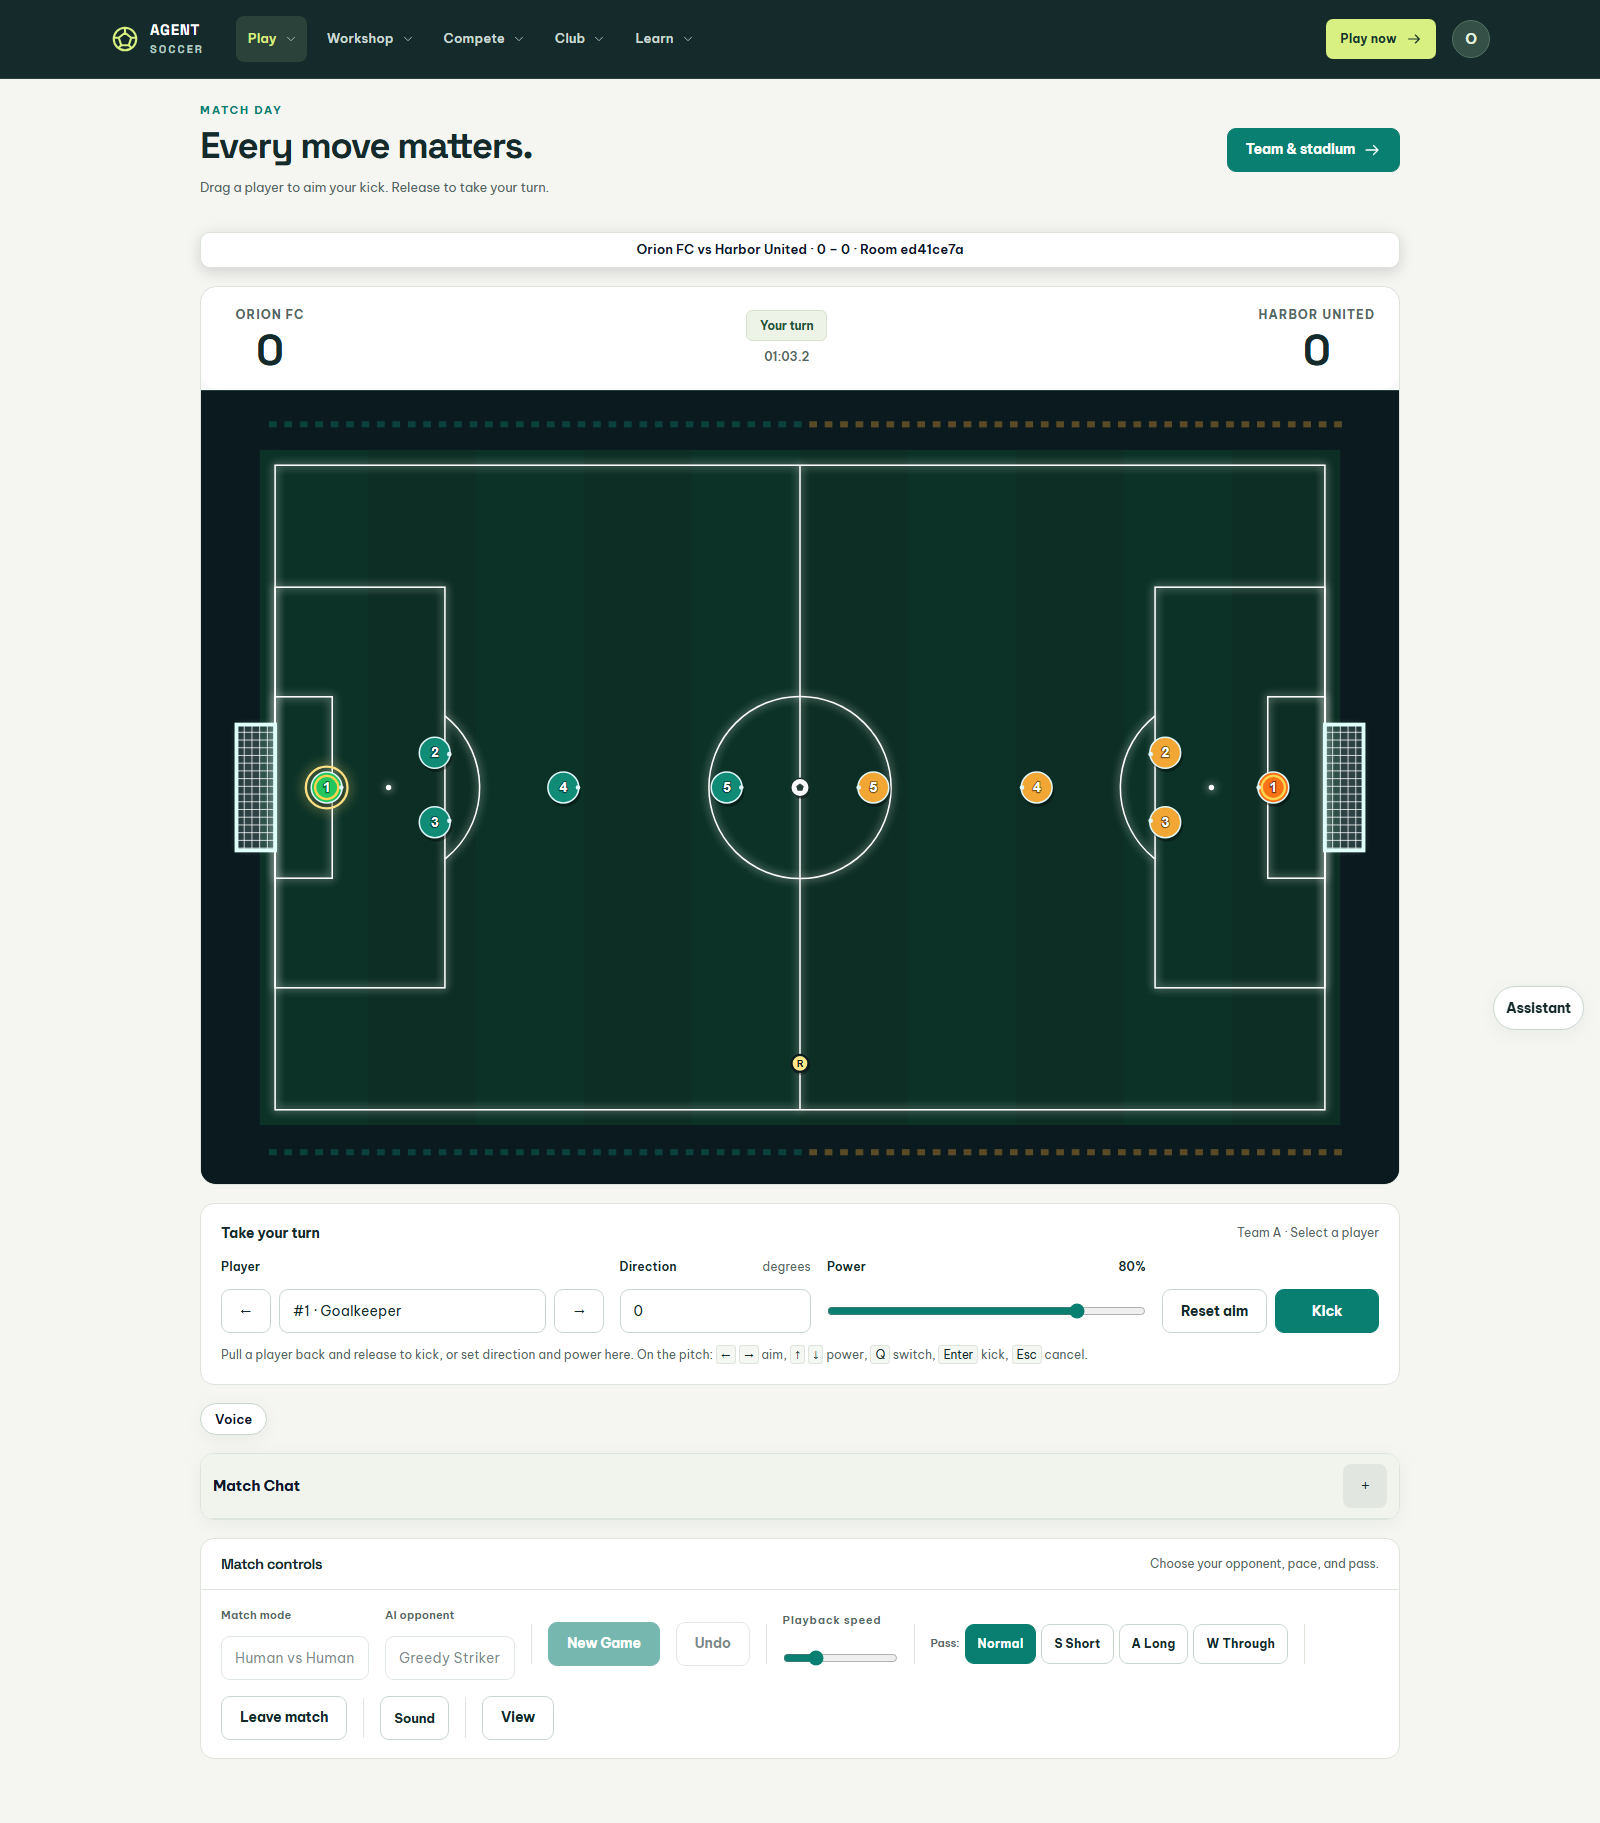
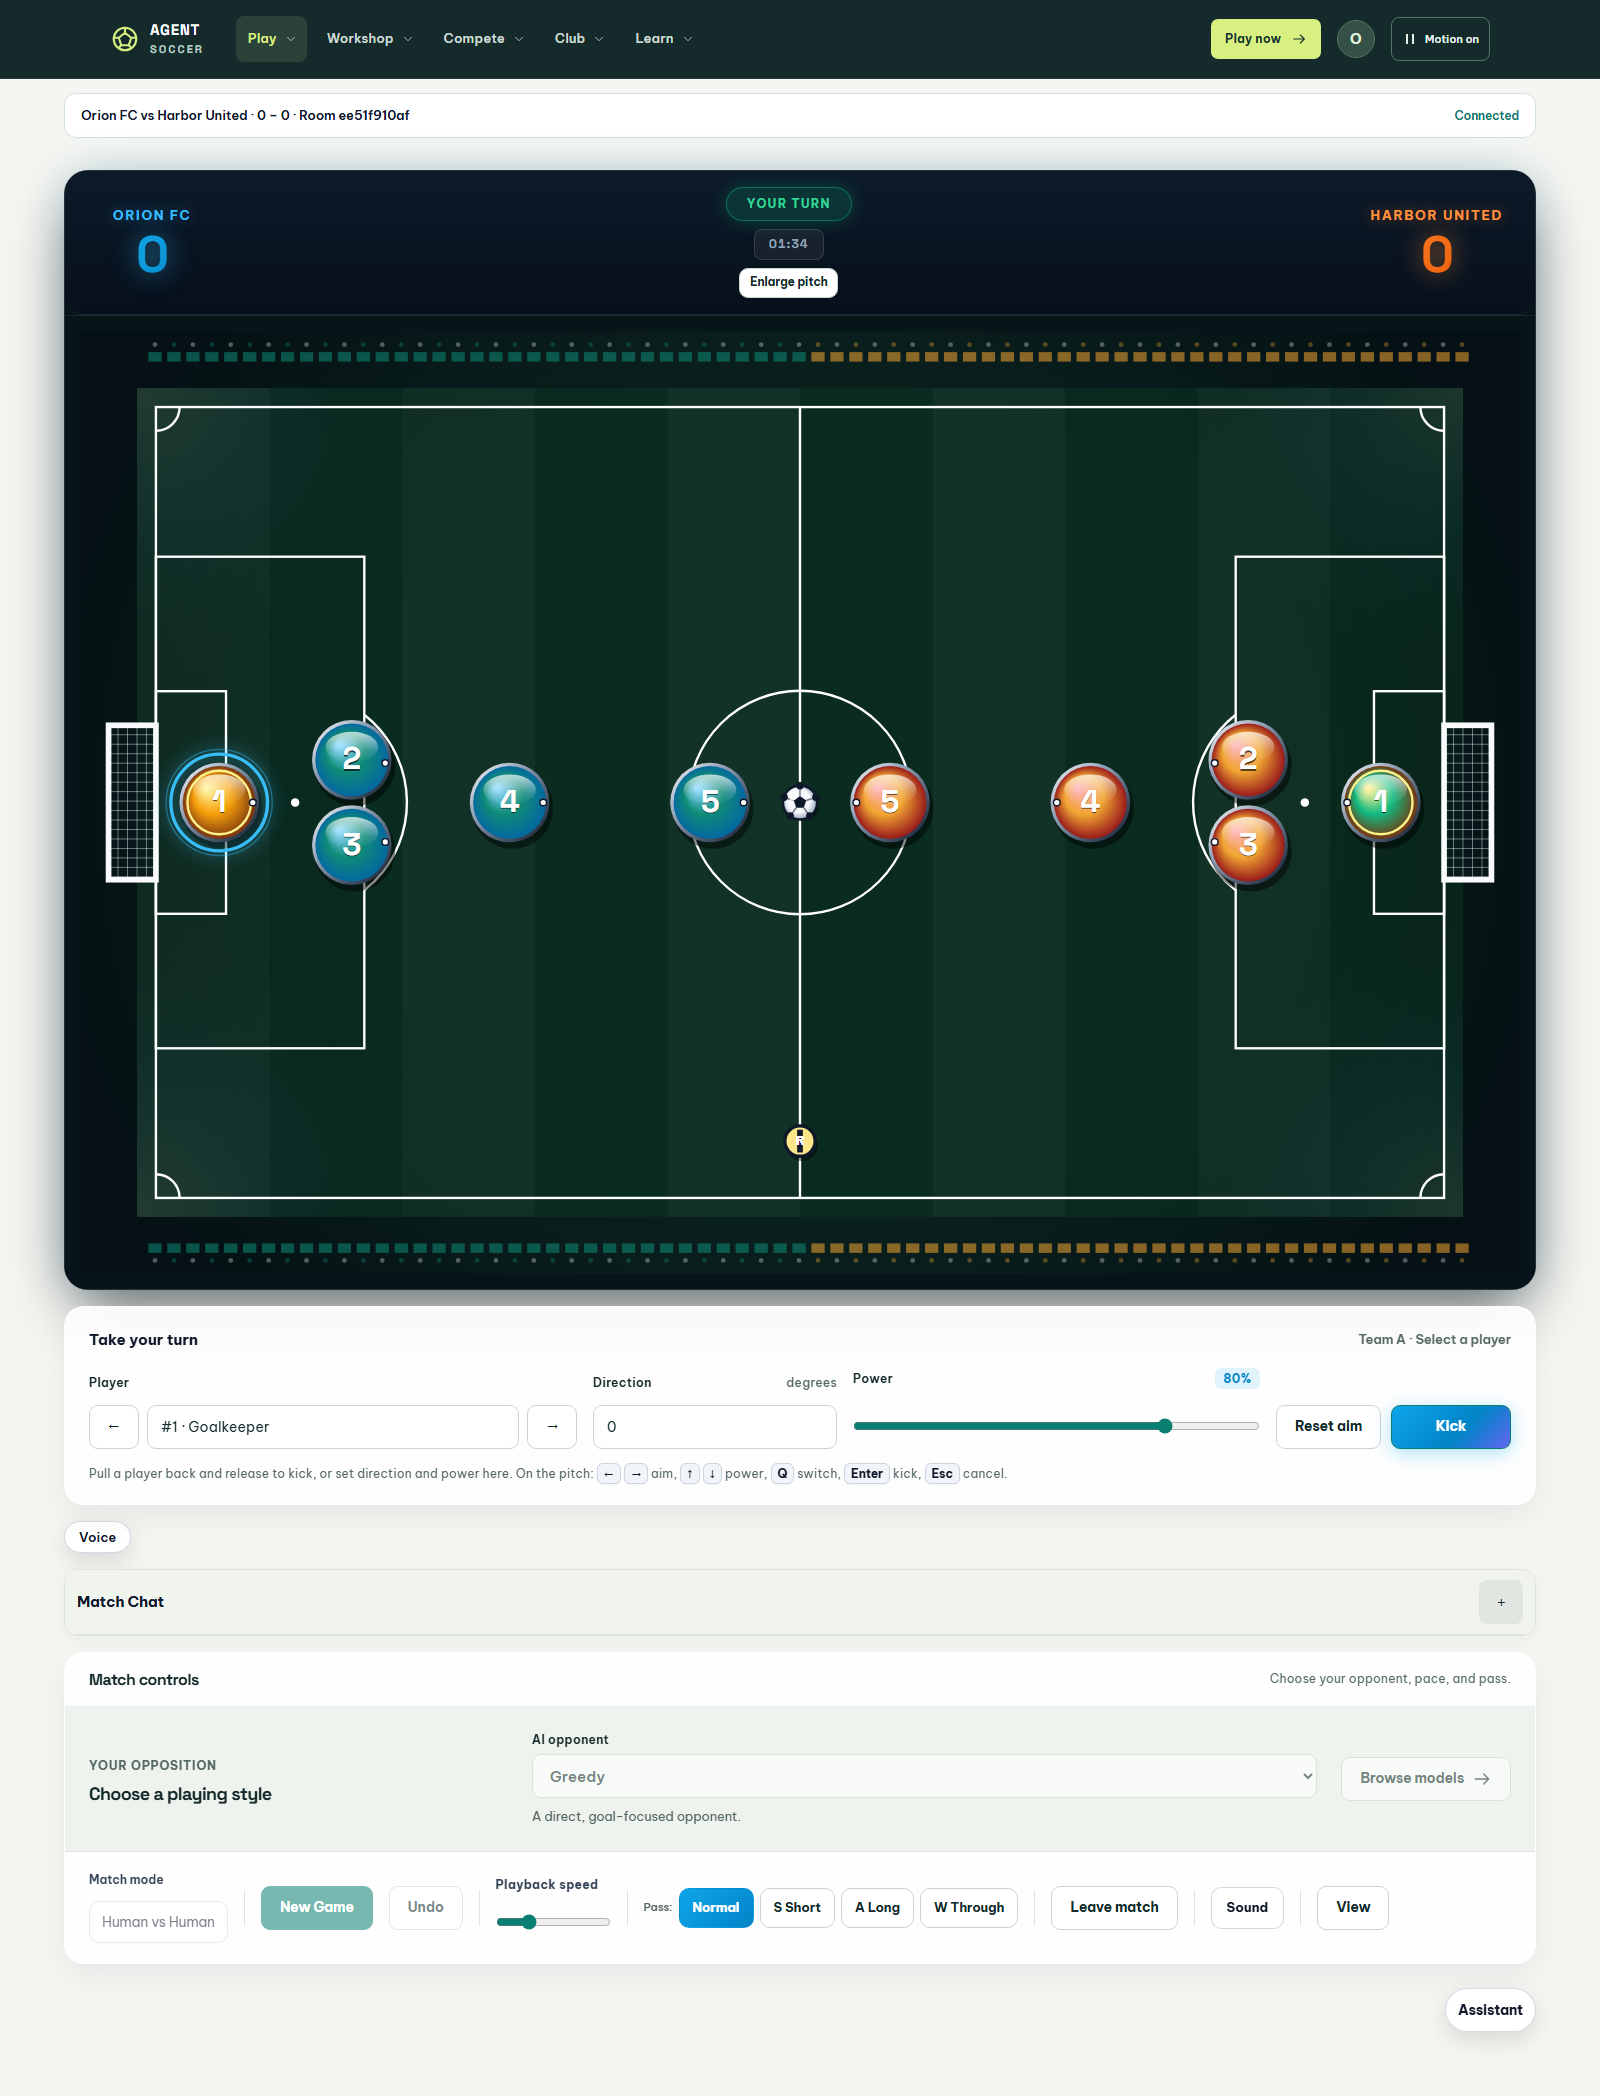
Refresh README gameplay guide and current product screenshots

diff --git a/tools/browser/capture_readme.py b/tools/browser/capture_readme.py
@@ -112,9 +112,12 @@ def capture() -> list[dict]:
     browser_errors = []
     failed_requests = []
 
-    def save_preview(page, filename, caption, *, full_page=False):
+    def save_preview(page, filename, caption, *, full_page=False, selector=None):
         path = destination / filename
-        page.screenshot(path=str(path), full_page=full_page, timeout=60000)
+        if selector:
+            page.locator(selector).screenshot(path=str(path), timeout=60000)
+        else:
+            page.screenshot(path=str(path), full_page=full_page, timeout=60000)
         with Image.open(path) as source:
             # Lossless RGB saves discard redundant alpha without softening text.
             source.convert("RGB").save(path, optimize=True)
@@ -138,7 +141,18 @@ def capture() -> list[dict]:
                     if response.status >= 400 else None)
             page.goto(base + "/__readme/sign-in", wait_until="networkidle")
 
-            page.goto(base + f"/play3d?room={room_id}", wait_until="networkidle")
+            page.goto(base + "/play2d", wait_until="networkidle")
+            page.locator('[onclick="resetGame()"]').click()
+            page.locator("#match-start-btn").wait_for(state="visible")
+            page.locator("#mode-select").select_option("hvai")
+            page.wait_for_function("document.querySelectorAll('.setup-team').length === 1")
+            save_preview(page, "match-setup.png", "Choose a formation and playstyle before kickoff.", selector="#match-setup")
+            page.locator("#online-btn").click()
+            page.locator("#online-resume-card").wait_for(state="visible")
+            save_preview(page, "online-lobby.png", "Friend invitations and match recovery in the online lobby.", selector=".online-lobby-card")
+            page.keyboard.press("Escape")
+
+            page.goto(base + f"/play2d?room={room_id}", wait_until="networkidle")
             page.wait_for_function("window.__pitch2D?.().players_a.length === 5")
             page.wait_for_function("document.querySelector('.team-a .team-name').textContent === 'Orion FC'")
             canvas = page.locator("#pitch-container canvas")

diff --git a/README.md b/README.md
@@ -2,11 +2,11 @@
 
 # Agent Soccer
 
-**A soccer game and Python AI playground, in your browser.** Build a strategy, tune your squad, and watch it compete on a 2D pitch. Agent Soccer combines turn-based controls with server-side physics, online matches, and tools for comparing your agents.
+**Pull back. Aim. Release.** Agent Soccer is a five-a-side, turn-based soccer game and Python AI playground. Choose your tactics, launch your players across a 2D pitch, and compete against AI or another person. Every kick uses server-side physics, with synchronized playback for the ball and both teams.
 
 **Python · Flask · Pymunk · Canvas 2D · WebAudio**
 
-[Quick start](#quick-start) · [Build an agent](#build-an-agent) · [AI catalog](#ai-catalog) · [Documentation](#documentation) · [Demo](https://drag-soccer-with-agent.onrender.com/)
+[Quick start](#quick-start) · [How to play](#how-to-play) · [Online play](#play-online) · [Build an agent](#build-an-agent) · [Documentation](#documentation) · [Demo](https://drag-soccer-with-agent.onrender.com/)
 
 ![A five-a-side online match between Orion FC and Harbor United, with the stadium, scoreboard, and player controls visible.](docs/assets/readme/gameplay.png)
 
@@ -17,6 +17,7 @@
 | | Experience |
 | --- | --- |
 | **Play** | Five players per team. Control your striker against AI, take turns locally, or watch AI vs AI. Pull back, aim, and release. |
+| **Plan** | Choose one of four formations and a five-level AI playstyle before kickoff. Players keep distinct defensive, support, and attacking jobs. |
 | **Build** | Write Python in the AI Playground, validate your strategy, save custom models, and work through seven guided lessons. |
 | **Customize** | Allocate player stats, choose formations and kits, and change pitch, ball, keeper, and referee colors. |
 | **Compete** | Compare agents in the Arena, run tournaments, submit models to the model leaderboard, or play ranked human matches. |
@@ -75,11 +76,29 @@ DEV_MODE=1 python app.py
 
 Open **[localhost:5000](http://localhost:5000)**. Choose **Log in → Try the demo account → Use demo details → Sign in**, then open the Workshop to create an agent. Keep optional integration keys empty for a standalone local session.
 
-### Play your first match
+## How to play
 
 1. Open **Play** and choose Human vs AI, Human vs Human, or AI vs AI.
-2. Choose your match settings. Each team has five players.
-3. Pull a legal player backward and release to kick, or use the direction and power controls.
+2. Choose a **formation** and, for AI matches, a **playstyle**. The lineup preview shows each player's position and job.
+3. Select **Start match**. The clock stays at **00:00** until kickoff.
+4. Pull an eligible player backward and release to launch it, or use the direction and power controls.
+
+![Pre-match setup with a numbered lineup preview, four formation choices, and five playstyle dots.](docs/assets/readme/match-setup.png)
+
+### Choose your tactics
+
+| Formation | Shape |
+| --- | --- |
+| **2-1-1 · Balanced** | Two defenders, one support player, one striker |
+| **1-2-1 · Diamond** | One defender, two midfield outlets, one striker |
+| **2-0-2 · Box** | Two defenders and two forwards |
+| **1-1-2 · Forward pair** | One defender and one support player behind two forwards |
+
+Every formation also includes a goalkeeper. The five playstyle dots run from **Deep defend → Defend → Balanced → Attack → All-out attack**. They adjust AI positioning and risk preference while preserving each player's role.
+
+Human vs AI configures your team; AI vs AI configures both teams. Local Human vs Human lets each side choose a formation. Tactics stay fixed during a match. **New Game** reopens setup with your last choices; refreshing resumes an active match.
+
+### Controls and match rules
 
 | Action | Keyboard |
 | --- | --- |
@@ -90,15 +109,25 @@ Open **[localhost:5000](http://localhost:5000)**. Choose **Log in → Try the de
 | Kick | Enter / Space while using the pitch |
 | Cancel aiming | Escape |
 
-Human vs AI gives you striker #5, marked **YOU** on the pitch. Pull the disc backward and release to launch it; longer pulls hit harder. Teammates act automatically, then control returns to you. New matches use a **90:00 clock** (4½ real minutes), with tied matches continuing to **105:00**, **120:00**, then penalties. In local Human vs AI shootouts, drag your keeper to either labeled side to dive, or toward the ball to stay central. Local Human vs Human and online play allow selection from the active player's roster. Untimed practice remains available in settings.
+Human vs AI gives you striker **#5**, marked **YOU**. Longer pulls produce stronger launches. Both AI squads make support runs during each kick; your striker remains under your control. After the opponent's turn, control returns to you. Local Human vs Human and online play allow selection from the active player's roster.
 
-The ball stays on the ground with crisp, ping-pong-style rebounds and a speed limit. Players stay inside the pitch, and every player follows the same playback clock as the ball.
+Matches use a **90:00 clock** (4½ real minutes of regulation), with tied games continuing to **105:00**, **120:00**, then penalties. In local Human vs AI shootouts, drag your keeper toward either labeled side to dive, or toward the ball to stay central. Untimed practice remains available in settings.
+
+Ordinary kicks keep the ball grounded. Soft boundary rebounds, rolling resistance and a speed cap keep it controllable; an inward corner bumper helps prevent trapped balls. Players stay inside the pitch and follow the same playback clock as the ball.
 
 ### Play online
 
-Open **Online** to share a match invitation, join a friend's link, or find a casual or ranked opponent. The lobby offers your existing match or search when you return. Connection status and a reconnect button show when the game is resynchronizing; interrupted kick requests are checked against the server before play resumes. See [online play](docs/online-play.md) for setup and verification.
+Open **Online** and choose **Play with a friend** or **Find a match**.
 
-### Give each player a role
+- **Friends:** create a room with an optional password, share its invitation, or paste a friend's link or room code.
+- **Matchmaking:** search for a casual opponent or join ranked play with a registered account. Casual search falls back to an AI opponent after eight seconds without a match.
+- **Recovery:** reopen your invitation, resume a match, or recover an ongoing search after refreshing. Connection status and a reconnect button explain interrupted connections. Lost kick responses are checked against the server before input is enabled again.
+
+![Online lobby with separate friend and matchmaking tabs, room creation, invitation entry, and a resume-match action.](docs/assets/readme/online-lobby.png)
+
+Leaving an active match awards the win to your opponent. Cancelling an unjoined invitation does not. See [online play](docs/online-play.md) for deployment requirements and recovery behavior.
+
+### Tune your squad
 
 Each player has a **200-point budget** across four stats, with values from 20 to 80 in the team builder.
 
@@ -170,10 +199,6 @@ Built-in agents share a fast tactical shortlist for shots, open passes, clearanc
 Live requests use four worker slots per process and return a legal tactical fallback when busy. Built-in physics searches stop cooperatively; arbitrary uploaded Python retains its slot until execution finishes. See [AI responsiveness](docs/ai-responsiveness.md) for tuning, timing measurements, and tradeoffs.
 
 Possession, Counter Attack, and High Press are lightweight deterministic tactical agents, with no downloads, API keys, or training data. Their own scoring priorities apply to both candidate ordering and budget-limited results. In AI matches, both squads reposition during each kick with jobs assigned by your formation. In the default 2-1-1, #1 guards goal, #2 and #3 defend, #4 supports passes, and #5 attacks. You keep control of your striker. All runs share the kick's existing physics world and recorded timeline.
-
-Before each new local match, choose your **formation** and **five-dot playstyle**, then select **Start match**. The clock stays at 00:00 while you prepare. Formations are 2-1-1 (Balanced), 1-2-1 (Diamond), 2-0-2 (Box), and 1-1-2 (Forward pair); each has a goalkeeper and four outfield players. The lineup preview shows every player's job, with your #5 striker highlighted.
-
-Playstyles run from Deep defend through Defend, Balanced, Attack, and All-out attack. Your AI teammates adjust their positioning and risk preference while keeping their formation roles. AI vs AI lets you configure both teams; local two-player games let each side choose a formation. Tactics stay fixed during the match. **New Game** reopens setup with your last choices prefilled; refreshing an active match resumes it.
 
 ## Architecture
 
@@ -252,10 +277,12 @@ Browser checks require Playwright and Chromium:
 python -m pip install playwright
 python -m playwright install chromium
 python tools/browser/verify_frontend.py
+python tools/browser/verify_2d.py
+python tools/browser/verify_match_setup.py
 python tools/browser/verify_online_reliability.py
 ```
 
-On Windows, substitute `.\.venv\Scripts\python.exe` for `python` if the environment is not activated. Focused browser checks cover controls, online matches, sound, camera visibility, and rendering. Commands and measurement limits are documented in [tools/README.md](tools/README.md).
+On Windows, substitute `.\.venv\Scripts\python.exe` for `python` if the environment is not activated. Browser checks cover auth forms, desktop/mobile layout, setup, gameplay, replays, and interrupted online requests. They run against an isolated local server; production Redis latency, Render cold starts, and external voice connections require deployment checks. Commands are documented in [tools/README.md](tools/README.md).
 
 ## Deployment
 
@@ -279,7 +306,8 @@ Core integration settings are listed in [.env.example](.env.example). Email, ana
 | [Players and controls](docs/player-controls.md) | Input rules, player models, and turn handling |
 | [Online play](docs/online-play.md) | Rooms, matchmaking, replay synchronization, and verification |
 | [Frontend](docs/frontend-design.md) | Shared page shell, responsive layout, and browser checks |
-| [Stadium experience](docs/stadium-experience.md) | Audience rendering and synthesized match audio |
+| [2D rendering](docs/2d-rendering.md) | Canvas presentation, demand rendering, resolution, and goal-only audio |
+| [Stadium experience](docs/stadium-experience.md) | Historical 3D audience and audio implementation |
 | [Analytics](docs/analytics.md) | Match analysis and reports |
 | [Project layout](docs/project-layout.md) | Folder map and development commands |
 | [Vendored assets](docs/vendoring.md) | Local libraries, fonts, and third-party notices |
